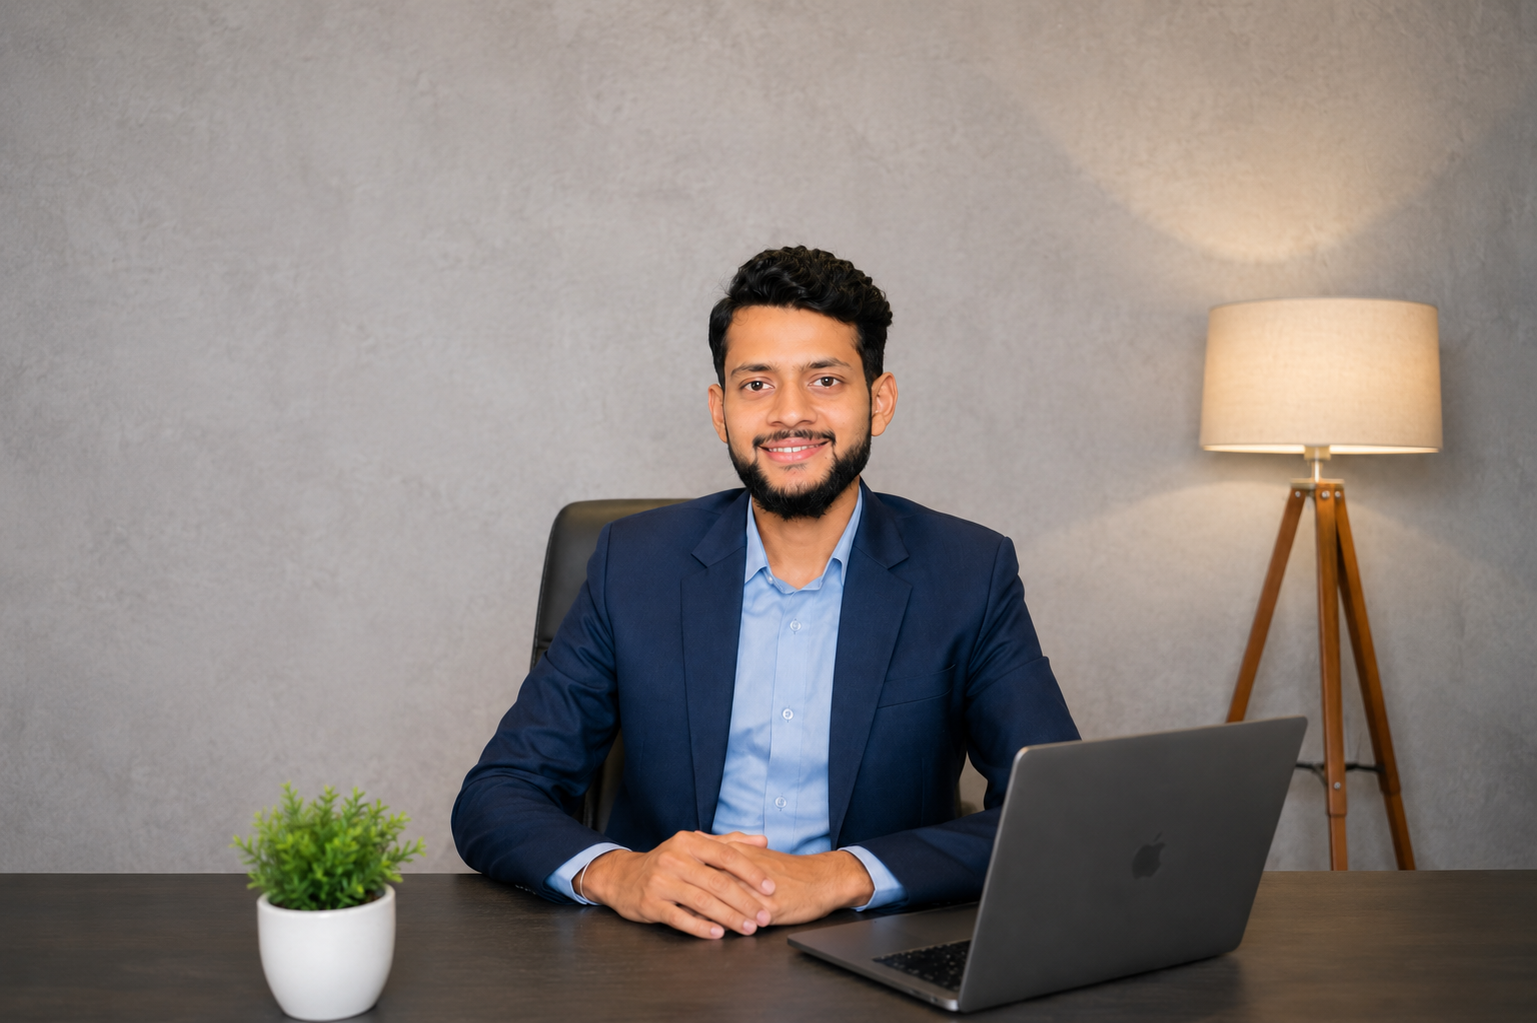
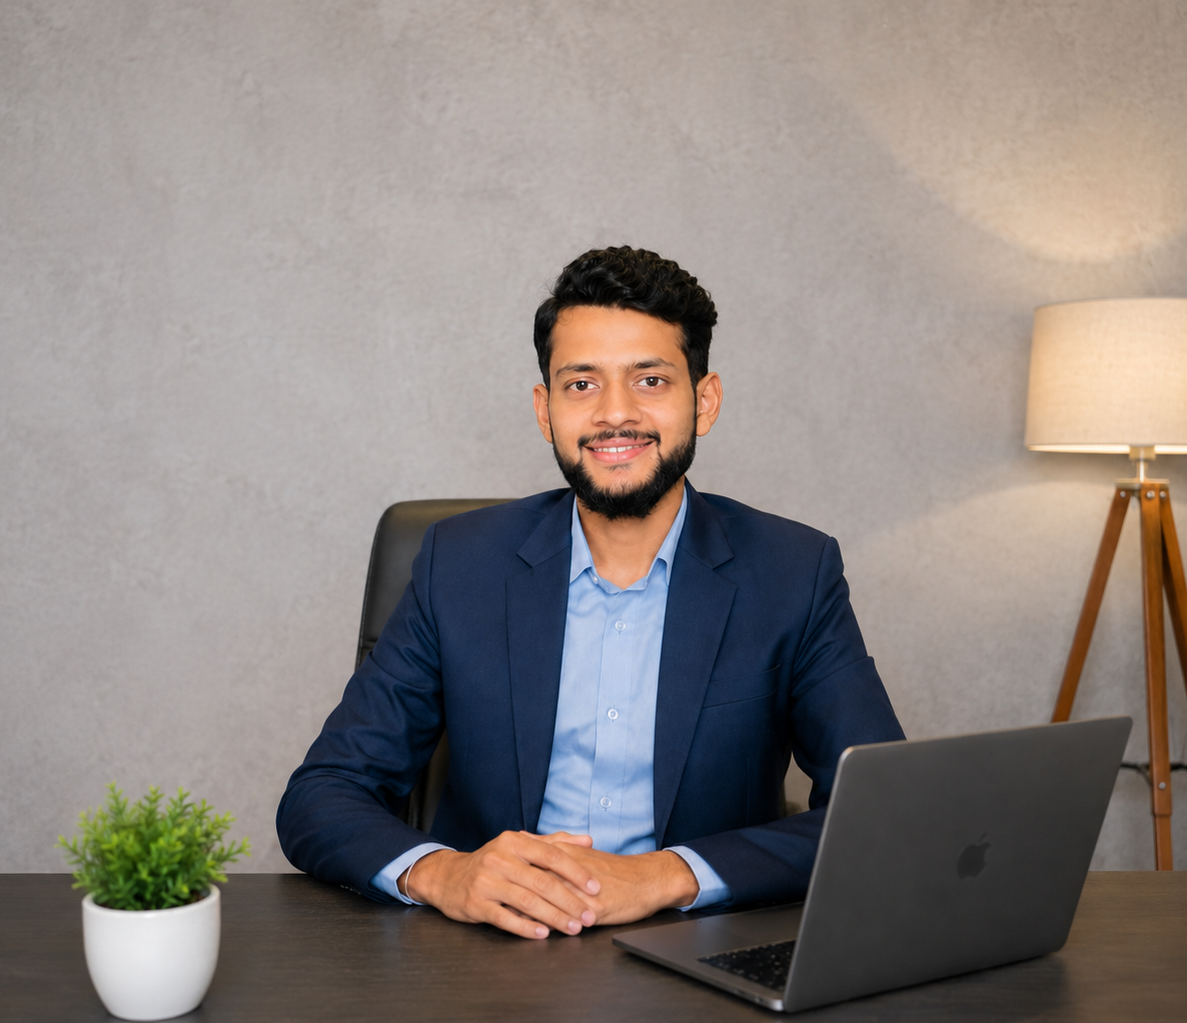
fix: crop left/right on homepage master photo & add GPU layer hardware acceleration to eliminate hover blur

diff --git a/css/about_section.css b/css/about_section.css
@@ -33,17 +33,24 @@
     box-shadow: 0 20px 45px -10px rgba(15, 23, 42, 0.12);
     border: 1px solid rgba(226, 232, 240, 0.9);
     background: #e2e8f0;
+    transform: translateZ(0);
+    -webkit-transform: translateZ(0);
 }
 
 .about-main-img-wrapper img {
     width: 100%;
     height: auto;
     display: block;
+    backface-visibility: hidden;
+    -webkit-backface-visibility: hidden;
+    transform: translateZ(0);
+    -webkit-transform: translateZ(0);
+    image-rendering: -webkit-optimize-contrast;
     transition: transform 0.6s cubic-bezier(0.16, 1, 0.3, 1);
 }
 
 .about-main-img-wrapper:hover img {
-    transform: scale(1.03);
+    transform: scale(1.03) translateZ(0);
 }
 
 /* FLOATING TEAM STATUS BADGE OVERLAY */

diff --git a/css/about.css b/css/about.css
@@ -573,11 +573,16 @@
     object-position: center center;
     border: 4px solid #ffffff;
     box-shadow: 0 12px 32px rgba(15, 23, 42, 0.12), 0 0 0 6px rgba(239, 246, 255, 0.85);
+    backface-visibility: hidden;
+    -webkit-backface-visibility: hidden;
+    transform: translateZ(0);
+    -webkit-transform: translateZ(0);
+    image-rendering: -webkit-optimize-contrast;
     transition: transform 0.3s ease;
 }
 
 .avatar-container:hover .profile-avatar {
-    transform: scale(1.03);
+    transform: scale(1.03) translateZ(0);
 }
 
 .verified-badge {
